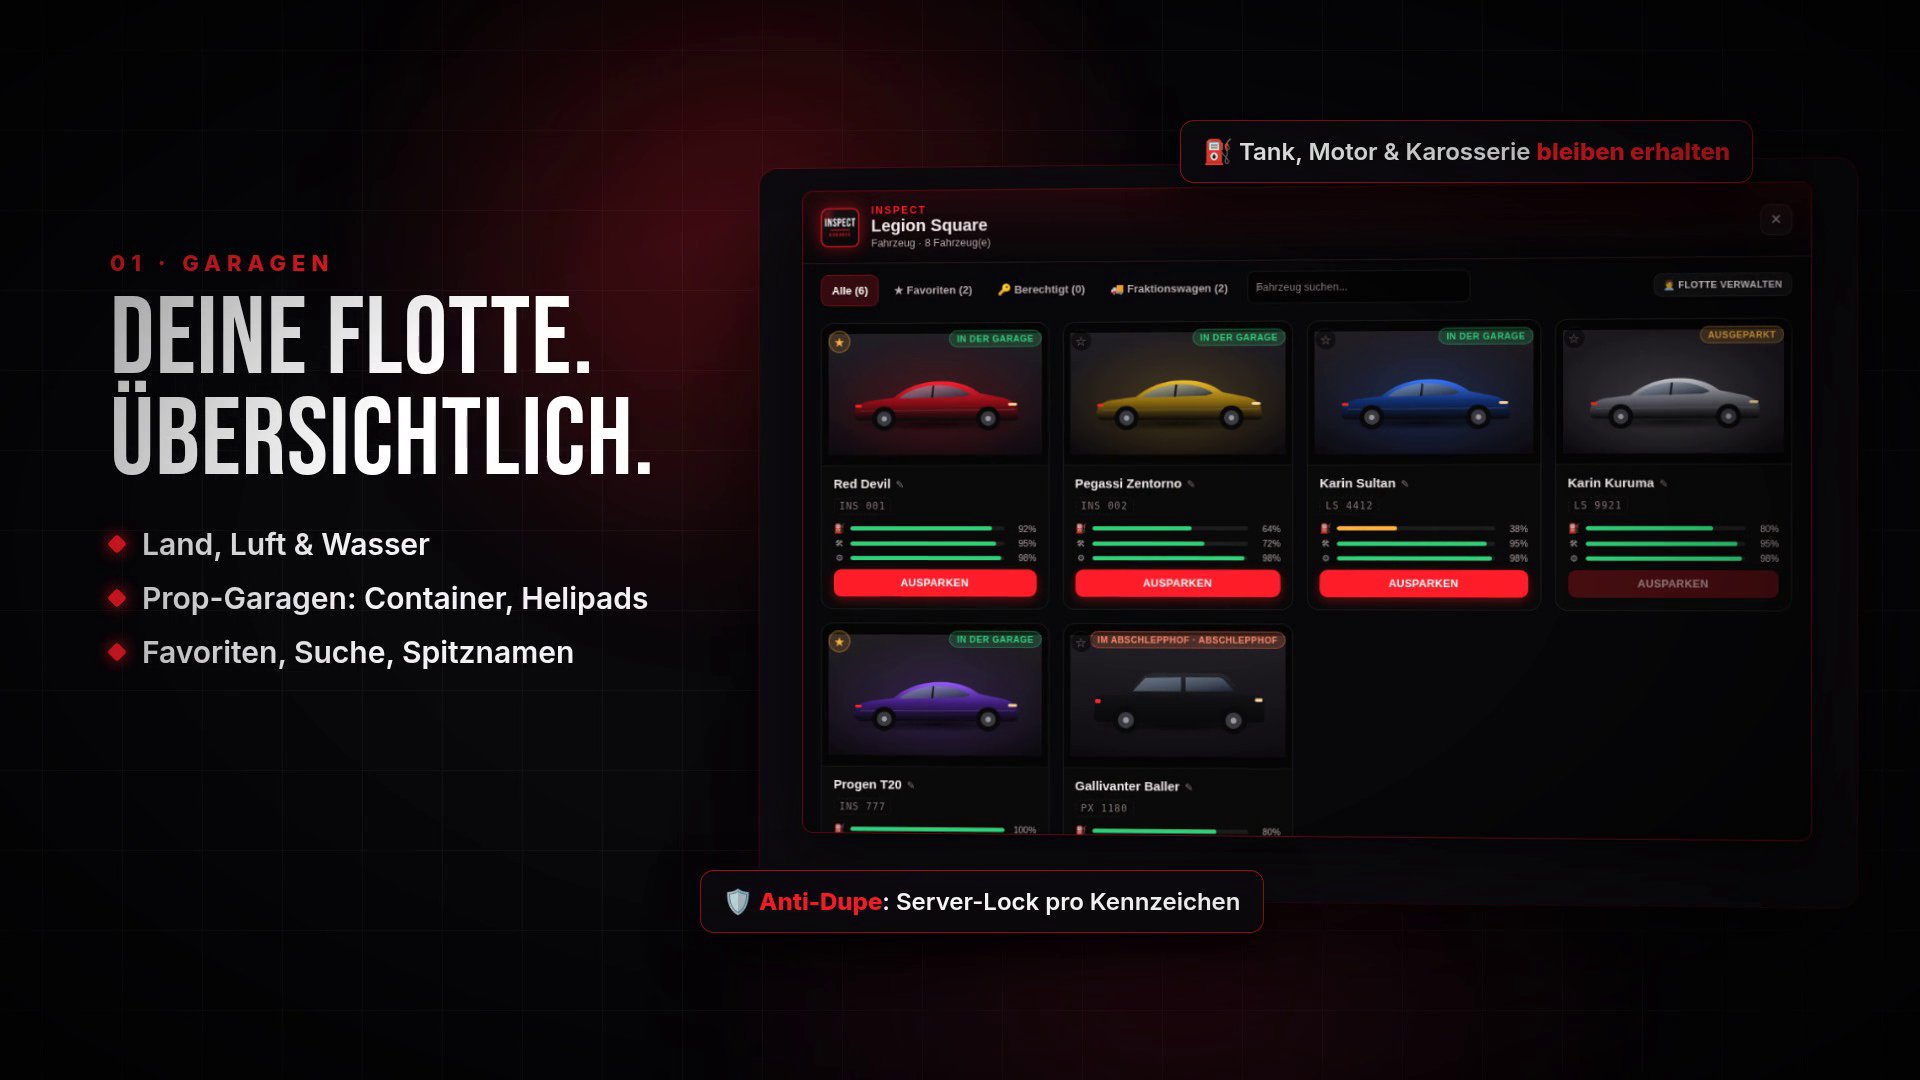
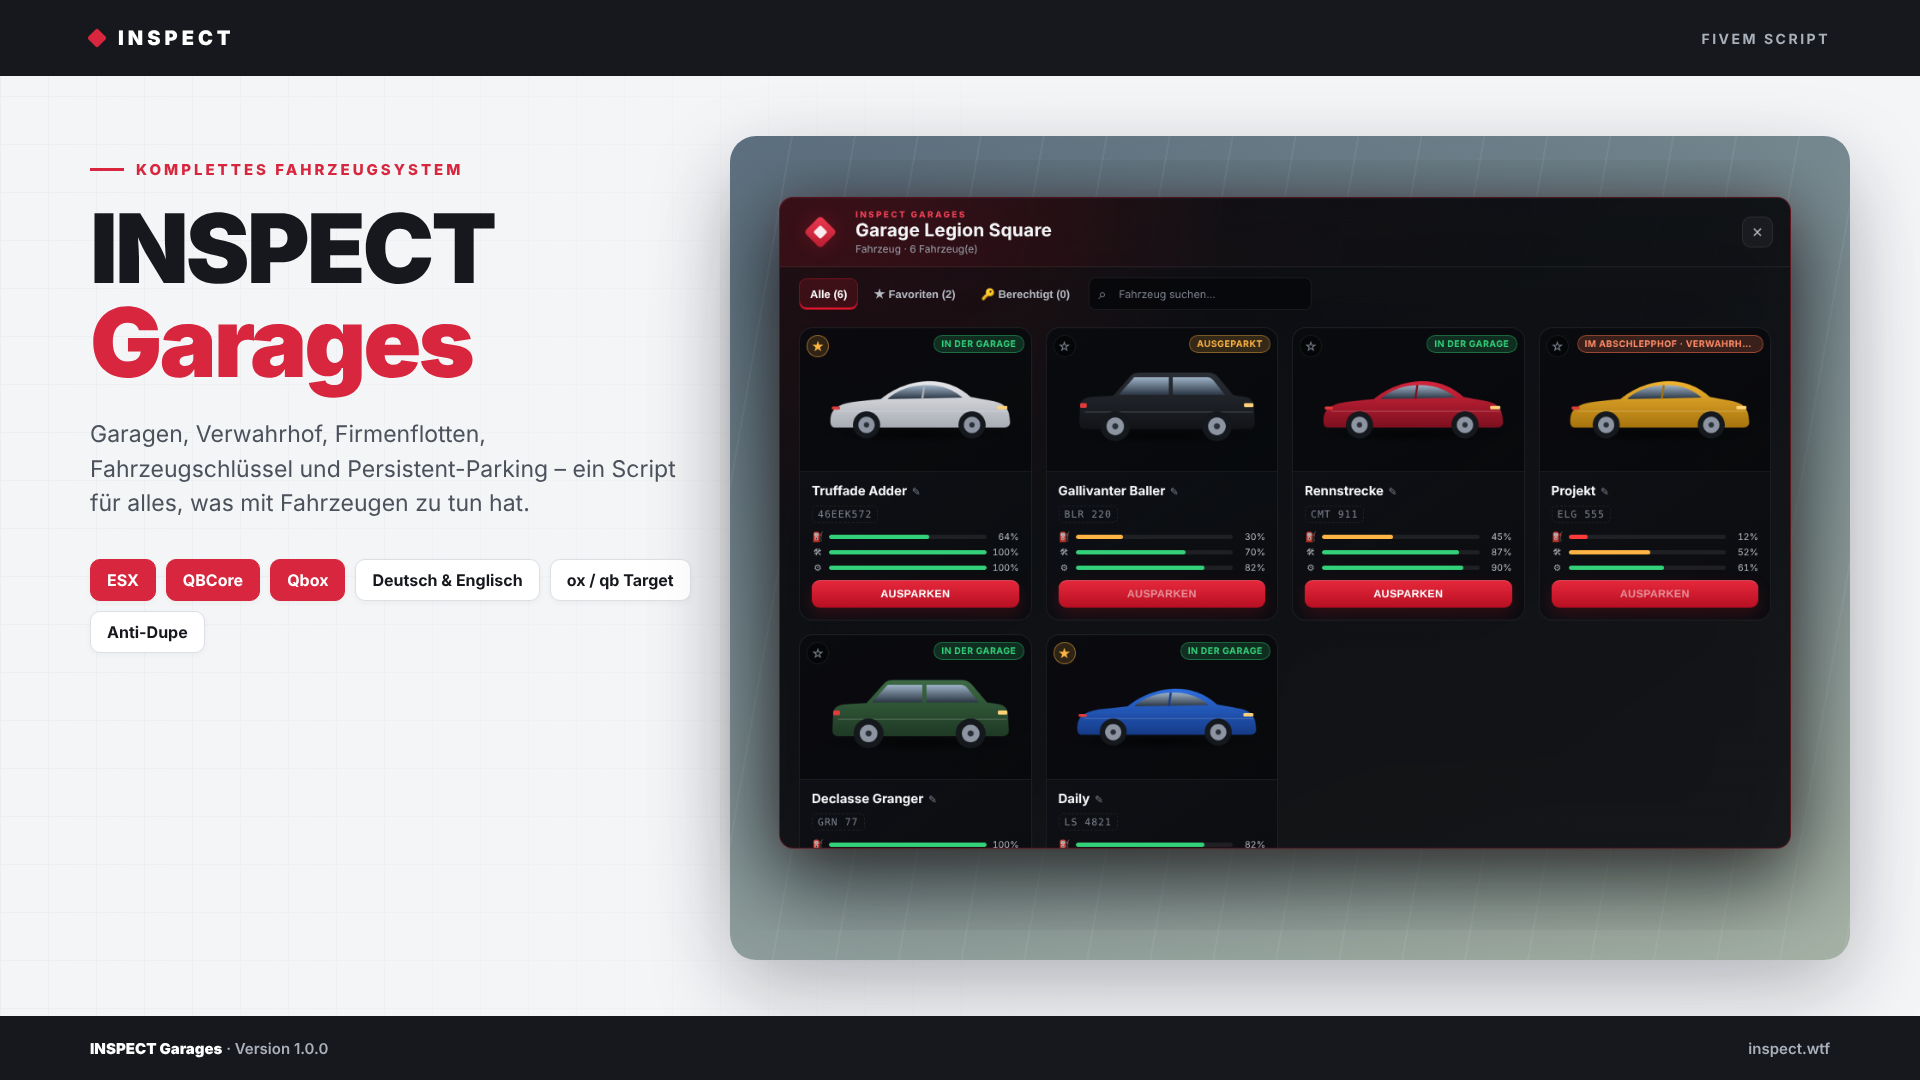
Produktpräsentation „INSPECT Garages – Garagen, Verwahrhof, Fahrzeugschlüssel und Persistent-Parking in einem System“ aktualisiert

diff --git a/README.md b/README.md
@@ -2,10 +2,10 @@
 
 <div align="center">
 
-<a href="https://shop.inspect.wtf/produkt/inspect-garages"><img src="assets/showcase/banner.svg" alt="INSPECT Garages – Das komplette Fahrzeug-System für FiveM – SecuroX Inspect" width="100%"></a>
+<a href="https://shop.inspect.wtf/produkt/inspect-garages"><img src="assets/showcase/banner.svg" alt="INSPECT Garages – Garagen, Verwahrhof, Fahrzeugschlüssel und Persistent-Parking in einem System – SecuroX Inspect" width="100%"></a>
 
 <p>
-  <a href="https://shop.inspect.wtf/produkt/inspect-garages"><img src="https://img.shields.io/badge/Preis-49%2C99%C2%A0%E2%82%AC-c1121f?style=for-the-badge&labelColor=121417" alt="Preis 49,99 €" height="28"></a>
+  <a href="https://shop.inspect.wtf/produkt/inspect-garages"><img src="https://img.shields.io/badge/Preis-39%2C99%C2%A0%E2%82%AC-c1121f?style=for-the-badge&labelColor=121417" alt="Preis 39,99 €" height="28"></a>
   <img src="https://img.shields.io/badge/Version-1.0.0-2b2f36?style=for-the-badge&labelColor=121417" alt="Version 1.0.0" height="28">
   <img src="https://img.shields.io/badge/Sofort%20verf%C3%BCgbar-2b2f36?style=for-the-badge" alt="Sofort verfügbar" height="28">
   <img src="https://img.shields.io/badge/ESX%20%C2%B7%20QBCore%20%C2%B7%20Qbox-2b2f36?style=for-the-badge" alt="ESX · QBCore · Qbox" height="28">
@@ -13,18 +13,18 @@
 </p>
 
 <p>
-  <a href="https://shop.inspect.wtf/produkt/inspect-garages"><img src="https://img.shields.io/badge/Jetzt%20kaufen%20%C2%B7%2049%2C99%C2%A0%E2%82%AC-c1121f?style=for-the-badge" alt="Jetzt kaufen · 49,99 €" height="36"></a>
+  <a href="https://shop.inspect.wtf/produkt/inspect-garages"><img src="https://img.shields.io/badge/Jetzt%20kaufen%20%C2%B7%2039%2C99%C2%A0%E2%82%AC-c1121f?style=for-the-badge" alt="Jetzt kaufen · 39,99 €" height="36"></a>
   <a href="https://discord.gg/inspect"><img src="https://img.shields.io/badge/Fragen%3F%20Discord-5865F2?style=for-the-badge&logo=discord&logoColor=white" alt="Discord" height="36"></a>
   <a href="https://www.tiktok.com/@securox_inspect"><img src="https://img.shields.io/badge/TikTok-000000?style=for-the-badge&logo=tiktok&logoColor=white" alt="TikTok" height="36"></a>
 </p>
 
 <br>
 
-<a href="https://shop.inspect.wtf/produkt/inspect-garages"><img src="assets/showcase/bild-1.png" alt="INSPECT Garages – Das komplette Fahrzeug-System für FiveM" width="100%"></a>
+<a href="https://shop.inspect.wtf/produkt/inspect-garages"><img src="assets/showcase/bild-1.png" alt="INSPECT Garages – Garagen, Verwahrhof, Fahrzeugschlüssel und Persistent-Parking in einem System" width="100%"></a>
 
 </div>
 
-> 🇬🇧 **English:** INSPECT Garages – Das komplette Fahrzeug-System für FiveM – FiveM script (ESX, QBCore, Qbox) by SecuroX Inspect. Purchase and licensing exclusively at [shop.inspect.wtf](https://shop.inspect.wtf). Product details below are in German – questions are welcome on [Discord](https://discord.gg/inspect).
+> 🇬🇧 **English:** INSPECT Garages – Garagen, Verwahrhof, Fahrzeugschlüssel und Persistent-Parking in einem System – FiveM script (ESX, QBCore, Qbox) by SecuroX Inspect. Purchase and licensing exclusively at [shop.inspect.wtf](https://shop.inspect.wtf). Product details below are in German – questions are welcome on [Discord](https://discord.gg/inspect).
 
 <br>
 
@@ -33,91 +33,86 @@
 <table>
   <tr>
     <td width="50%" valign="top">✔&nbsp; <b>Kompatibilität · ESX Legacy, QBCore und Qbox mit automatischer Framework-Erkennung</b></td>
-    <td width="50%" valign="top">✔&nbsp; <b>Kompatibilität · Inventare: ox_inventory, qb-inventory, ps-inventory, lj-inventory, qs-inventory, jaksam_inventory, core_inventory, codem-inventory, tgiann-inventory, origen_inventory und ESX-Standard</b></td>
+    <td width="50%" valign="top">✔&nbsp; <b>Kompatibilität · ox_inventory, qs-inventory, jaksam_inventory, qb-, ps- und lj-inventory oder Framework-Inventar</b></td>
   </tr>
   <tr>
-    <td width="50%" valign="top">✔&nbsp; <b>Kompatibilität · Fuel: ox_fuel, LegacyFuel, cdn-fuel, ps-fuel, lj-fuel, qs-fuelstations, okokGasStation, ti_fuel, Renewed-Fuel und hrs_fuel – automatisch erkannt, sonst GTA-Standardwert</b></td>
-    <td width="50%" valign="top">✔&nbsp; <b>Kompatibilität · Datenbank: MariaDB 10.3+ und MySQL 8, Tabellen werden beim ersten Start automatisch angelegt</b></td>
+    <td width="50%" valign="top">✔&nbsp; <b>Kompatibilität · ox_target oder qb-target, ohne Target per Taste</b></td>
+    <td width="50%" valign="top">✔&nbsp; <b>Kompatibilität · ox_fuel, LegacyFuel, cdn-fuel, ps-fuel, lj-fuel und weitere Tank-Scripts</b></td>
   </tr>
 </table>
 
 ## Überblick
 
-Ein Fahrzeug-System statt sieben Einzel-Scripts.
+Vier Scripts weniger.
 
-Auf den meisten Servern laufen Garage, Verwahrhof, Schlüssel, Persistent-Parking und Trailer als getrennte Scripts. Das Ergebnis sind doppelte Fahrzeuge, Respawns nach /dv, verlorene Schäden und Konflikte zwischen den Ressourcen. INSPECT Garages bündelt alles in einer Ressource, in der jeder Teil vom anderen weiß.
+Garage, Schlüssel, Verwahrhof und Parken laufen auf den meisten Servern über verschiedene Ressourcen, die sich gegenseitig im Weg stehen – und genau dort entstehen doppelte Fahrzeuge, verlorene Autos und Supportanfragen. INSPECT Garages vereint alles in einem System mit gemeinsamer Datenbank und durchgehendem Anti-Dupe-Schutz.
 
-Alles live im Spiel verwalten  
-Über das Admin-Board /admingarage legt ihr Garagen, Verwahrhöfe, Prop-Garagen, Trailer-Modelle und Spawnables direkt im Spiel an, verschiebt sie per Ghost-Vorschau und schaltet sie an oder ab. Ein Neustart der Ressource ist dafür nie nötig.
+Garagen  
+Punkt- und Prop-Garagen für Autos, Luft- und Wasserfahrzeuge, Job-Garagen mit Mindestrang. Jedes Fahrzeug erscheint als Karte mit Bild, Tank-, Karosserie- und Motorzustand, Favoriten und Spitznamen. Tank, Schaden, Verformung, Schmutz, Tuning und Kilometerstand werden beim Einparken gespeichert und beim Ausparken exakt wiederhergestellt.
 
-Fahrzeuge bleiben, wie sie sind  
-Tuning, Tank, Motor- und Karosserieschaden, Deformation, Türen, Fenster, Reifen und Schloss bleiben beim Ein- und Ausparken erhalten. Ausgeparkte Besitzfahrzeuge stehen auch nach einem Server-Restart genau dort, wo sie abgestellt wurden. /dv funktioniert sauber: kein Respawn, Besitzfahrzeuge gehen zurück in die Garage.
+Fahrzeugschlüssel  
+Abschließen per Taste, Schlüssel dauerhaft oder befristet weitergeben – optional mit Auspark-Recht und Schlüsselrohling als Verbrauchsitem. Die Fernbedienung steuert Türen, Fenster, Sitze, Motor und Licht. Wer keinen Schlüssel hat, versucht es mit dem Dietrich-Minispiel – inklusive Dispatch-Hook für dein Polizei-Script.
 
-Gebaut gegen Duplikate  
-Serverseitige Sperren pro Kennzeichen, atomare Datenbank-Updates, ein Watchdog bei Verbindungsabbrüchen und reservierte Spawnpunkte verhindern, dass Fahrzeuge doppelt entstehen – auch wenn mehrere Spieler gleichzeitig ausparken.
+Verwahrhof und Firmenflotten  
+Fahrzeuge werden am Ausliefer-Punkt mit Preis und Grund eingeliefert, Spieler lösen sie selbst aus, Verwalter setzen Preise, sperren Fahrzeuge und verwalten die Kasse. Firmenwagen gehören dem Job: Der Chef und ernannte Flottenmanager geben sie für einzelne Mitarbeiter oder ab einem Rang frei.
 
-Für Jobs, Admins und Spieler  
-Job-Garagen machen Fahrzeuge automatisch zu Firmenfahrzeugen, die der Chef pro Mitarbeiter oder Rang freigibt. Verwahrhöfe haben eine eigene Verwalter-Ansicht mit Preisen, Sperren und Geld-Lager. Das integrierte Schlüsselsystem bringt Fernbedienung, temporäre Schlüssel und ein Admin-Panel mit Protokoll mit. Trailer lassen sich beladen und überall per Auge einparken. Spawnables machen Fahrräder, Roller oder Boote zu Inventar-Items, inklusive Zustand, Reparatur-Limit und festem Kennzeichen.
+Persistent-Parking  
+Ausgeparkte Fahrzeuge bleiben nach einem Serverneustart oder Despawn genau dort stehen, wo sie abgestellt wurden – mit Tuning, Schaden, Tank und Schloss-Zustand. Eingeparkte oder verwahrte Fahrzeuge werden nie wiederhergestellt, Duplikate sind ausgeschlossen.
+
+Alles im Spiel einstellbar  
+Im Admin-Board legt ihr Garagen und Verwahrhöfe an, verschiebt Spawnpunkte, verwaltet Fahrzeuge, Props, Anhänger und mobile Fahrzeuge – live, ohne Neustart. Ein eigenes Schlüssel-Admin-Panel zeigt alle Schlüssel, Park-Sperren und ein lückenloses Protokoll.
 
 Schnell installiert  
-Framework, Inventar und Fuel-Script werden automatisch erkannt. Beim ersten Start legt das Script alle Tabellen selbst an (MariaDB und MySQL 8) und ergänzt eure bestehende Fahrzeugtabelle nur um eigene Spalten. Eure Bestandsfahrzeuge bleiben unverändert und stehen sofort in der Garage. Beispiel-Garagen, Verwahrhöfe, Item-Vorlagen und eine bebilderte Installationsanleitung (PDF) sind enthalten.
+Ordner einfügen, ensure eintragen, Items anlegen – Tabellen und Spalten erstellt das Script beim ersten Start selbst. Framework, Inventar, Target und Tank-Script werden automatisch erkannt. Eine ausführliche Anleitung auf Deutsch und Englisch liegt bei.
 
 ## Kompatibilität
 
 | | |
 |:--|:--|
 | Frameworks | **ESX** · **QBCore** · **Qbox** |
-| Unterstützte Ressourcen | `ox_inventory` · `ox_target` |
+| Unterstützte Ressourcen | `ox_inventory` · `ox_target` · `qb-target` |
 | Plattform | FiveM (GTA V) |
 
 ## Alle weiteren Funktionen
 
-- Garagen · Punkt-Garagen und Prop-Garagen: Container, Helipads, Stege und passende Weltobjekte werden zur Garage
-- Garagen · Getrennte Garagentypen für Land-, Luft- und Wasserfahrzeuge
-- Garagen · Modernes, transparentes UI mit Fahrzeugbildern, Suche, Favoriten, Spitznamen sowie Tank-, Motor- und Karosserieanzeige
-- Garagen · Gebühren fürs Ein- und Ausparken, Job-Beschränkung, Blip, Marker und Kartenkategorie pro Garage
-- Garagen · Schaden und Deformation bleiben 1:1 erhalten (VehicleDeformation-Integration mit eingebautem Fallback)
-- Anti-Dupe · Serverseitige Sperre pro Kennzeichen und atomare Datenbank-Updates bei jedem Ein- und Ausparken
-- Anti-Dupe · Watchdog löst hängende Sperren nach Verbindungsabbrüchen
-- Anti-Dupe · Spawnpunkt-Reservierung verhindert Kollisionen und Duplikate beim gleichzeitigen Ausparken
-- Persistent-Parking · Ausgeparkte Besitzfahrzeuge bleiben über Restarts an ihrer letzten Position – mit Tuning, Schaden, Tank, Türen, Fenstern, Reifen und Schloss
-- Persistent-Parking · /dv ohne Respawn: Besitzfahrzeuge gehen sauber zurück in die Garage
+- Garagen · Punkt- und Prop-Garagen für Autos, Luft- und Wasserfahrzeuge
+- Garagen · Job-Garagen mit Mindestrang, Blips und Marker
+- Garagen · Fahrzeugkarten mit Bild, Tank-, Karosserie- und Motorzustand
+- Garagen · Favoriten, Spitznamen und Suche
+- Garagen · Tank, Schaden, Verformung, Schmutz, Tuning und Kilometerstand werden gespeichert
+- Garagen · Gebühren für Ein- und Ausparken, zuerst Bargeld, dann Bank
+- Anti-Dupe · Atomare Datenbank-Sperren, Zeitüberschreitung mit Rücksetzung, sichere Spawnpunkte
+- Schlüssel · Auf- und Abschließen per Taste mit Hup- und Schloss-Sound
+- Schlüssel · Dauerhaft oder befristet weitergeben, optional mit Auspark-Recht
+- Schlüssel · Schlüsselrohling als Verbrauchsitem
 
 <details>
-<summary><b>32 weitere Funktionen anzeigen</b></summary>
+<summary><b>24 weitere Funktionen anzeigen</b></summary>
 
-- Persistent-Parking · Alle Fahrzeuge inklusive Job-, Team- und NPC-Fahrzeugen in einer Tabelle – ideal als Datenquelle für Teamboards
-- Persistent-Parking · Verlassene Job-, Team- und NPC-Fahrzeuge werden automatisch aufgeräumt
-- Admin-Board · /admingarage: Garagen, Verwahrhöfe, Props, Trailer-Modelle, Spawnables und Einstellungen live verwalten – ohne Ressourcen-Neustart
-- Admin-Board · Ghost-Vorschau zum exakten Platzieren von Garagen- und Prop-Punkten
-- Admin-Board · Jedes Fahrzeug per Kennzeichen oder Besitzer finden und direkt neben sich ausparken
-- Admin-Board · Restart-Blacklist für Modelle und Kennzeichen, z. B. für Job-Anhänger
-- Verwahrhof · Einliefern per ox_target-Auge oder Befehl, mit individueller Auslösesumme und Grund
-- Verwahrhof · Verwalter-Ansicht: Preise ändern, Fahrzeuge sperren, kostenlos zurückgeben, Geld-Lager abholen, Mitarbeiter freischalten
-- Verwahrhof · Job-, Team- und NPC-Fahrzeuge werden beim Einliefern gelöscht statt fälschlich verwahrt
-- Job-Flotten · Fahrzeuge in Job-Garagen werden automatisch Firmenfahrzeuge
-- Job-Flotten · Freigabe pro Mitarbeiter oder pro Rang, Ernennung von Flottenmanagern
-- Schlüssel · Auf- und Abschließen per Taste, Fernbedienung für Türen, Fenster, Sitze, Motor und Licht
-- Schlüssel · Permanente oder zeitlich begrenzte Schlüssel vergeben, optional mit Auspark-Recht
-- Schlüssel · Admin-Panel /admincarkey mit Übersicht, Vergabe, Park-Sperre, Fahrzeugöffnung und Protokoll
-- Trailer · Fahrzeuge auf Trailern befestigen und lösen, mit automatischer Höhenanpassung
-- Trailer · Eigene Trailer überall per Auge einparken – sie landen in ihrer Heimat-Garage
-- Spawnables · Fahrzeuge als Inventar-Item: mit Animation auspacken, per Auge wieder einpacken
-- Spawnables · Festes Kennzeichen pro Charakter und Item, Schaden, Tank und Tuning bleiben erhalten
-- Spawnables · Reparatur-Limit mit Verschrottung, Notfall-Repkit und Mechaniker-Jobs konfigurierbar
-- Spawnables · Live im Admin-Board anlegen, bearbeiten, deaktivieren, löschen und ausgepackte Fahrzeuge zurückholen
-- Spawnables · Bei /dv erhält der Besitzer sein Item zurück – auch wenn er offline ist
-- Spawnables · Optionales Discord-Webhook-Protokoll
-- Installation · Bestehende Fahrzeugtabellen (owned_vehicles / player_vehicles) werden weiterverwendet und nur um eigene Spalten ergänzt
-- Installation · Beispiel-Garagen, Verwahrhöfe für Land, Luft und Wasser sowie Trailer-Modelle vorkonfiguriert
-- Installation · Item-Vorlagen für ox_inventory, QBCore, qs-inventory und ESX sowie manuelle SQL-Dateien enthalten
-- Installation · Bebilderte Installationsanleitung als PDF mit Fehlerbehebung
-- Entwickler · Exports für Verwahrhof, Fahrzeugrückgabe, Positionsabfrage, Persistenz und Schlüsselprüfung
-- Entwickler · Config, Bridges, SQL und Item-Vorlagen offen editierbar
-- Rechte · ACE-Recht inspect.garageadmin, zusätzliche Framework-Gruppen konfigurierbar
-- Anpassung · Eigenes Logo, Farben, Servername und Fahrzeugbilder (png/jpg/webp)
-- Voraussetzungen · OneSync, oxmysql, ox_lib und ox_target
-- Sprache · Benutzeroberfläche auf Deutsch
+- Schlüssel · Fernbedienung für Türen, Fenster, Sitze, Motor und Licht
+- Schlüssel · Dietrich-Minispiel mit Dispatch-Hook für Polizei-Scripts
+- Schlüssel · Admin-Panel mit allen Schlüsseln, Park-Sperre, Einstellungen und Protokoll
+- Verwahrhof · Einliefern per Target oder Befehl mit Preis und Grund
+- Verwahrhof · Auslösen durch Spieler, Preise, Sperren und kostenlose Freigabe durch Verwalter
+- Verwahrhof · Kasse mit Auszahlung und Zugriffsrechten für Mitarbeiter
+- Firmenflotten · Firmenwagen gehören dem Job, Freigabe pro Mitarbeiter oder ab Rang
+- Firmenflotten · Ernannte Flottenmanager und optionaler Mindestrang pro Fahrzeug
+- Persistent-Parking · Fahrzeuge bleiben nach Neustart oder Despawn stehen
+- Persistent-Parking · Tuning, Schaden, Tank und Schloss-Zustand bleiben erhalten
+- Persistent-Parking · Keine Duplikate, Neustart-Blacklist und automatische Bereinigung
+- Anhänger · Ankoppeln, Lösen und Einparken eigener Anhänger per Target
+- Mobile Fahrzeuge · Fahrräder, Roller und Co. als Item mit Reparaturset
+- Admin-Board · Garagen, Verwahrhöfe, Fahrzeuge, Props, Anhänger und Blacklist live verwalten
+- Admin-Board · Fahrzeuge anlegen, Kennzeichen ändern, löschen und zurückholen
+- QBCore · Spalte state wird automatisch synchron gehalten, Firmenfahrzeuge werden unterstützt
+- Protokoll · Discord-Webhooks für Garage, Gebühren, Verwahrhof, Flotte, Schlüssel, Aufbrüche, Admin und Sicherheit
+- Datenbank · Tabellen und Spalten werden beim ersten Start automatisch angelegt
+- Sprache · Deutsch und Englisch für Spieltexte, Webhooks und komplette Oberfläche
+- Entwickler · Server- und Client-Exports für Verwahrhof, Schlüssel, Rückholung und Parking
+- Entwickler · Config, Bridges und Sprachdateien offen editierbar
+- Oberfläche · Icons und Schriften lokal eingebunden, kein externer Server nötig
+- Installation · Ausführliche Anleitung auf Deutsch und Englisch als README
+- Voraussetzungen · ox_lib, oxmysql und OneSync
 
 </details>
 
@@ -125,22 +120,20 @@ Framework, Inventar und Fuel-Script werden automatisch erkannt. Beim ersten Star
 
 <table>
   <tr>
-    <td width="50%"><img src="assets/showcase/bild-2.png" alt="INSPECT Garages – Das komplette Fahrzeug-System für FiveM" width="100%"></td>
-    <td width="50%"><img src="assets/showcase/bild-3.png" alt="INSPECT Garages – Das komplette Fahrzeug-System für FiveM" width="100%"></td>
-  </tr>
-  <tr>
-    <td width="50%"><img src="assets/showcase/bild-4.png" alt="INSPECT Garages – Das komplette Fahrzeug-System für FiveM" width="100%"></td>
-    <td width="50%"><img src="assets/showcase/bild-5.png" alt="INSPECT Garages – Das komplette Fahrzeug-System für FiveM" width="100%"></td>
-  </tr>
-  <tr>
-    <td width="50%"><img src="assets/showcase/bild-6.png" alt="INSPECT Garages – Das komplette Fahrzeug-System für FiveM" width="100%"></td>
-    <td width="50%"></td>
+    <td width="50%"><img src="assets/showcase/bild-2.png" alt="INSPECT Garages – Garagen, Verwahrhof, Fahrzeugschlüssel und Persistent-Parking in einem System" width="100%"></td>
+    <td width="50%"><img src="assets/showcase/bild-3.png" alt="INSPECT Garages – Garagen, Verwahrhof, Fahrzeugschlüssel und Persistent-Parking in einem System" width="100%"></td>
   </tr>
 </table>
 
+## In Aktion sehen
+
+- 🎞 Videos direkt auf der [Produktseite im Shop](https://shop.inspect.wtf/produkt/inspect-garages)
+
+Neue Clips und Vorschauen regelmäßig auf TikTok: **[@securox_inspect](https://www.tiktok.com/@securox_inspect)**
+
 ## Preis
 
-**49,99 €** &nbsp;–&nbsp; einmaliger Kaufpreis · Download und Lizenz im Kundenkonto
+**39,99 €** &nbsp;–&nbsp; einmaliger Kaufpreis · Download und Lizenz im Kundenkonto
 
 <div align="center">
 
@@ -182,7 +175,7 @@ Nach bestätigter Zahlung stehen Download und Lizenz in deinem Kundenkonto berei
 <summary><b>Welche Frameworks werden unterstützt?</b></summary>
 <br>
 
-ESX, QBCore, Qbox – zusätzlich mit Unterstützung für ox_inventory, ox_target.
+ESX, QBCore, Qbox – zusätzlich mit Unterstützung für ox_inventory, ox_target, qb-target.
 
 </details>
 <details>
